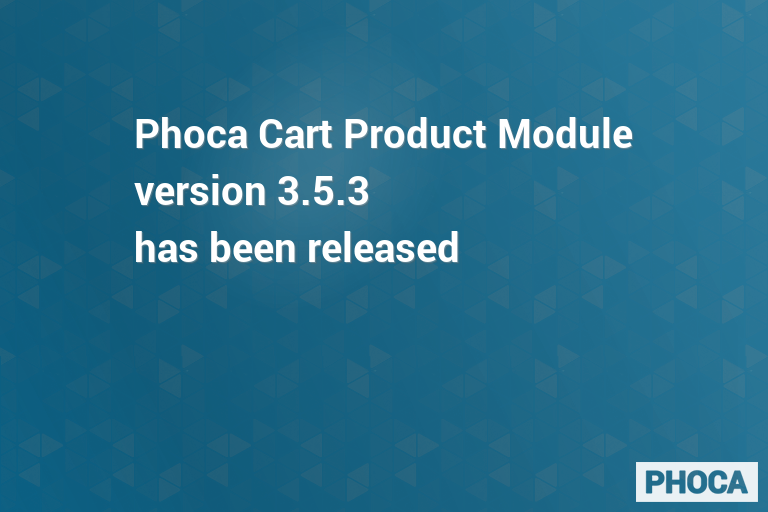
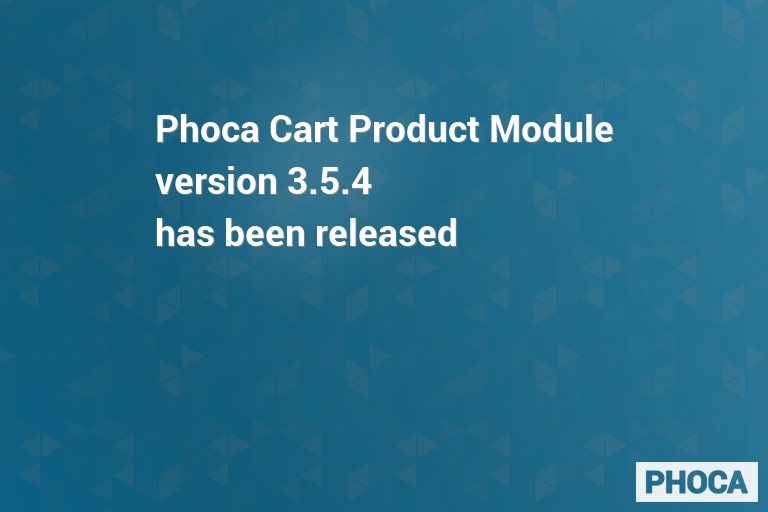
3.5.4
3.5.4

Changed region(s): [[0.1562, 0.2188, 0.8438, 0.5312]]

diff --git a/README.MD b/README.MD
@@ -56,7 +56,7 @@ Phoca Cart Product Module - a Joomla! CMS module which displays Phoca Cart produ
 
 ## Version
 
-3.5.3
+3.5.4
 
 
 
